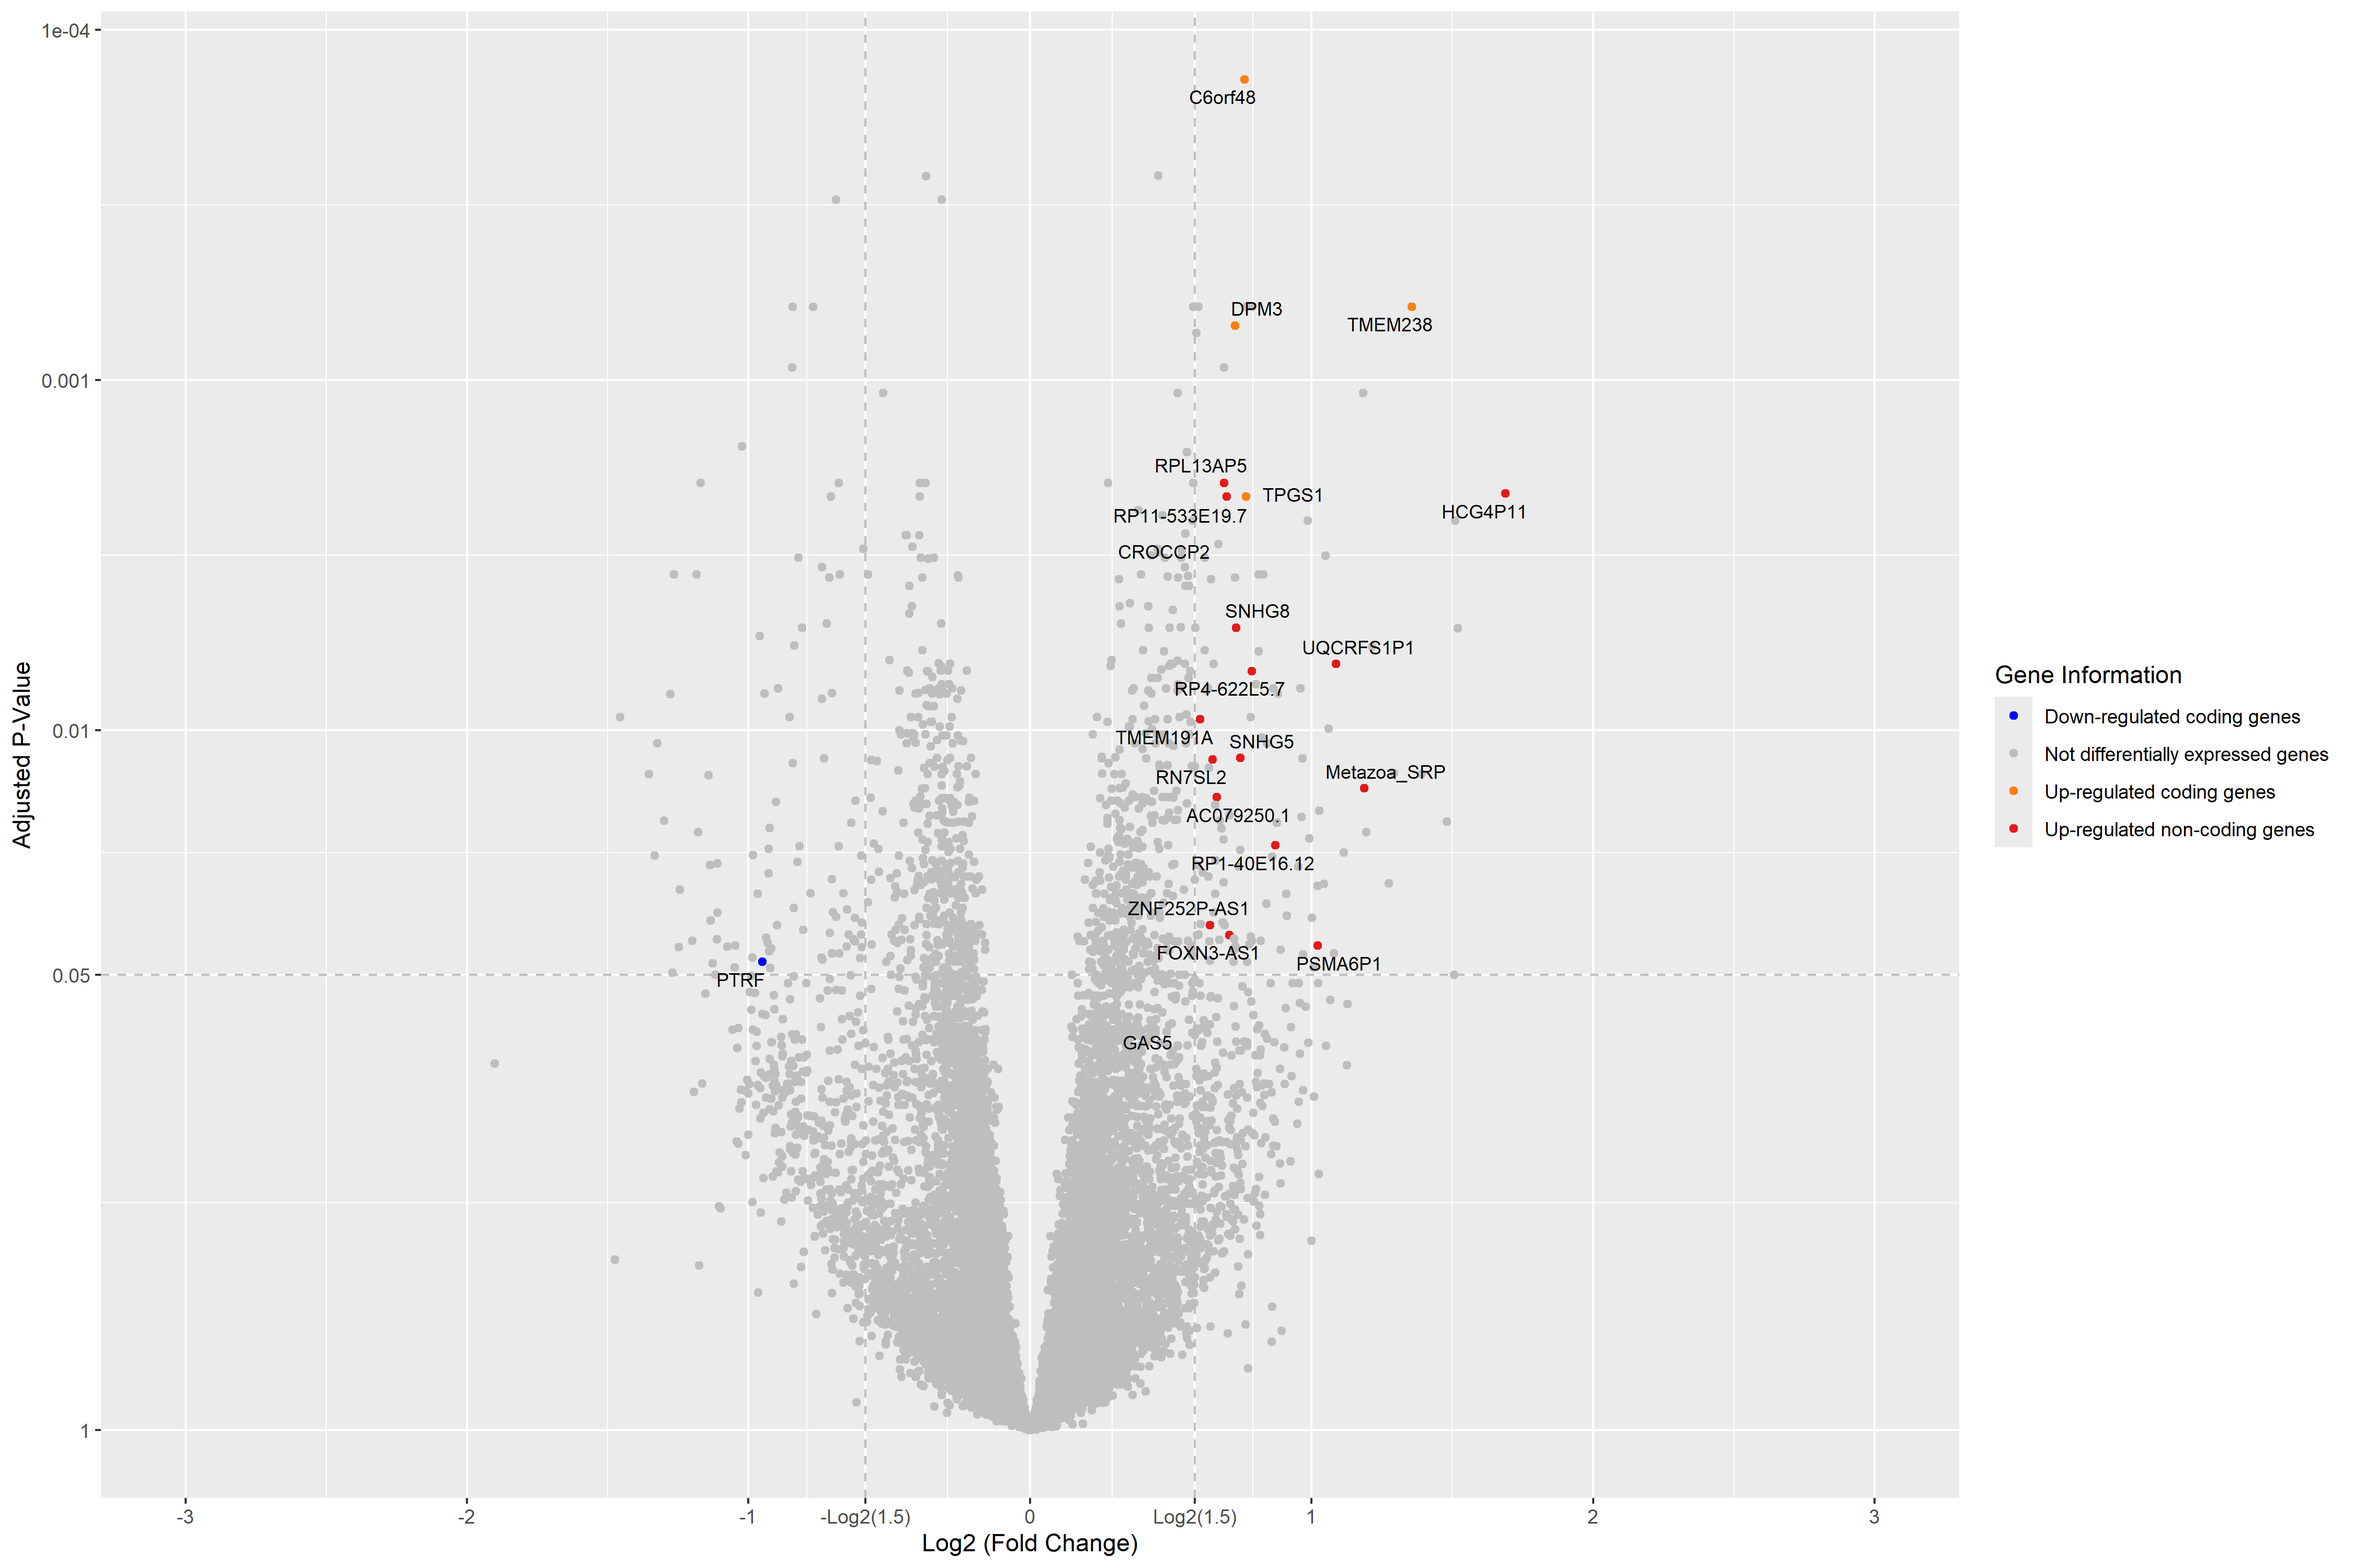
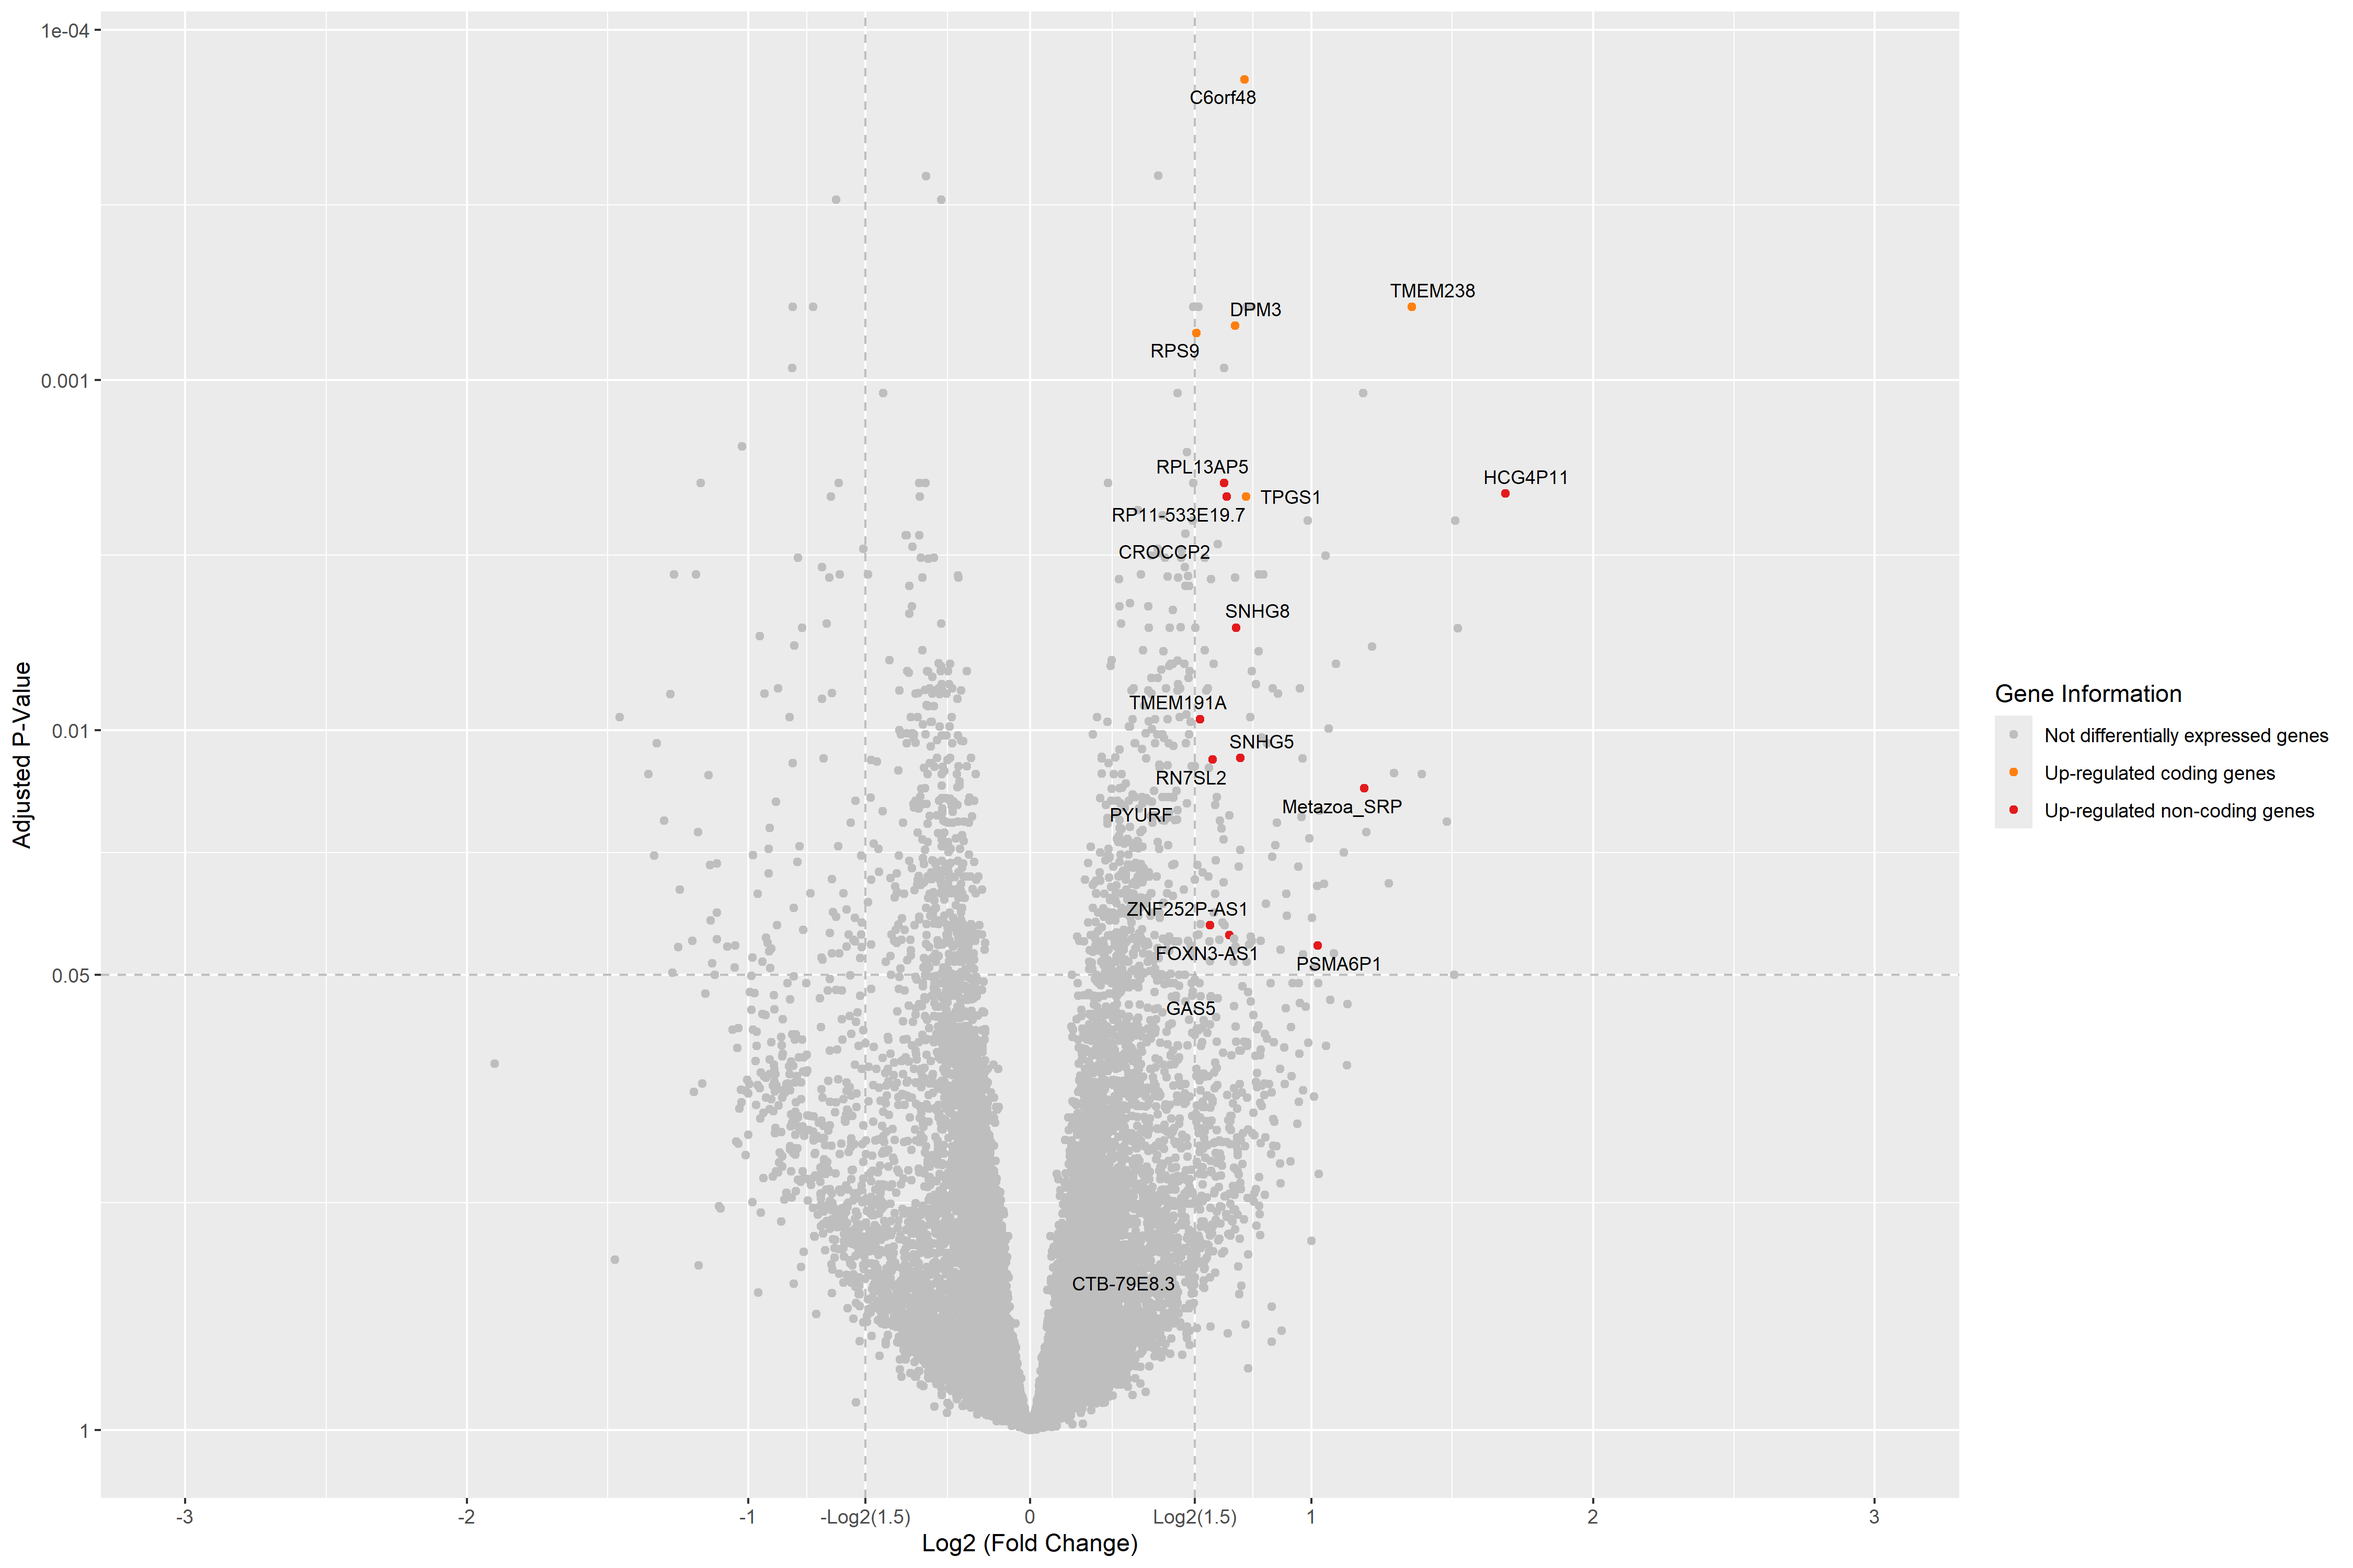
Added Final Results

diff --git a/data/see_python.py b/data/see_python.py
@@ -2,11 +2,11 @@ import pandas as pd
 
 data = pd.read_excel("data/Current_Comparison_SVM_RF/rf_analysis_9_22.xlsx")
 data = data.sort_values("auc", ascending=False)
+data = data[data["auc"]>=0.96]
 gene_names = dict()
 ensembles = dict()
 print(data.head)
 
-index = 1
 for _, row in data.iterrows():
     e_list = row["ensembles"].split(", ")
     g_list = row["Gene names"].split(", ")
@@ -17,11 +17,10 @@ for _, row in data.iterrows():
         else: 
             ensembles[e_list[i]] += 1
             gene_names[g_list[i]] += 1
-    
-    if index == 25:
-        break
-    index += 1
-# print(ensembles)
-print({k: v for k, v in sorted(gene_names.items(), key=lambda item: item[1], reverse=True)})
-print(sorted(ensembles, key=lambda k: ensembles[k], reverse=True)[0:22])
-print(sorted(gene_names, key=lambda k: gene_names[k], reverse=True)[0:22])
+
+ensemble_list = sorted(ensembles, key=lambda k: ensembles[k], reverse=True)[0:20]
+limmavoom = pd.read_excel("data/LimmaVoom/All_GENES_LimmaVoom_RNA_SEQ.xlsx")
+results = limmavoom[limmavoom["Row.names"].isin(ensemble_list)]
+sorted_values = results.sort_values("P.Adjust", ascending=True)
+sorted_values = sorted_values[["gene_name", "Row.names", "biotype"]]
+print(sorted_values)
